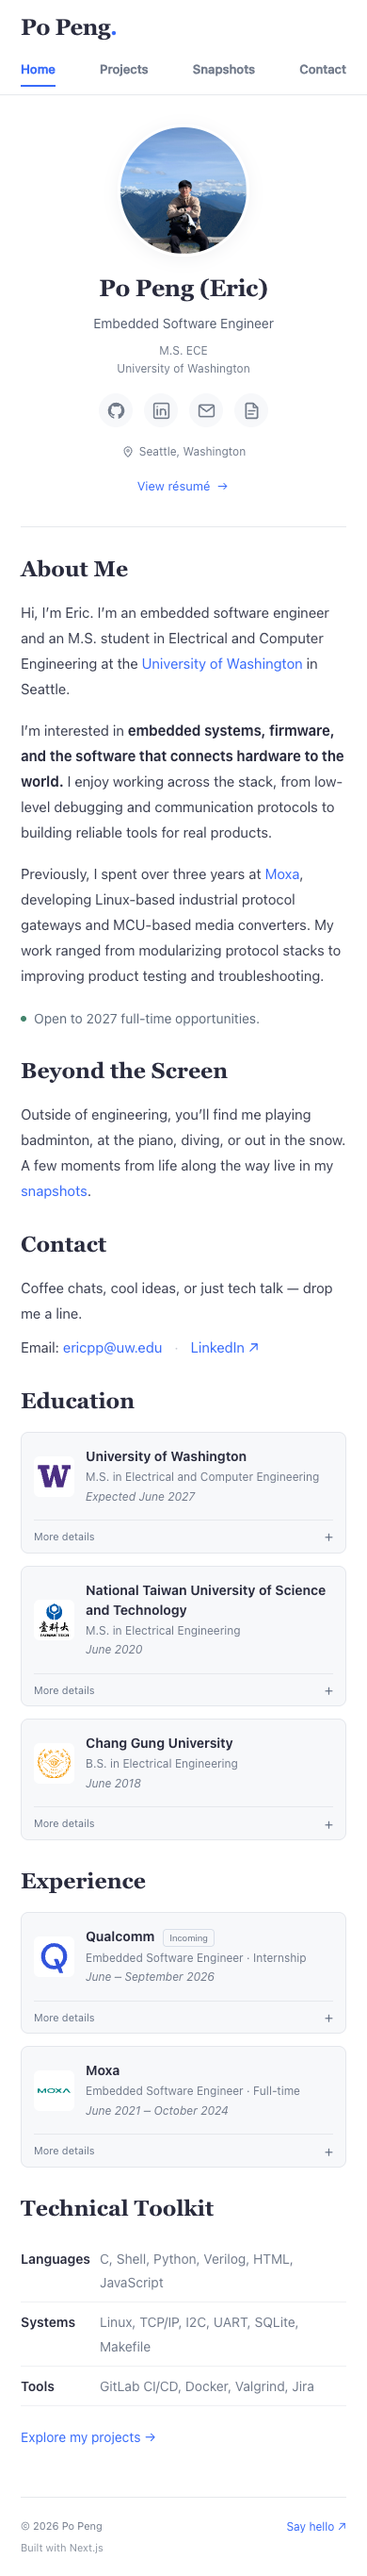
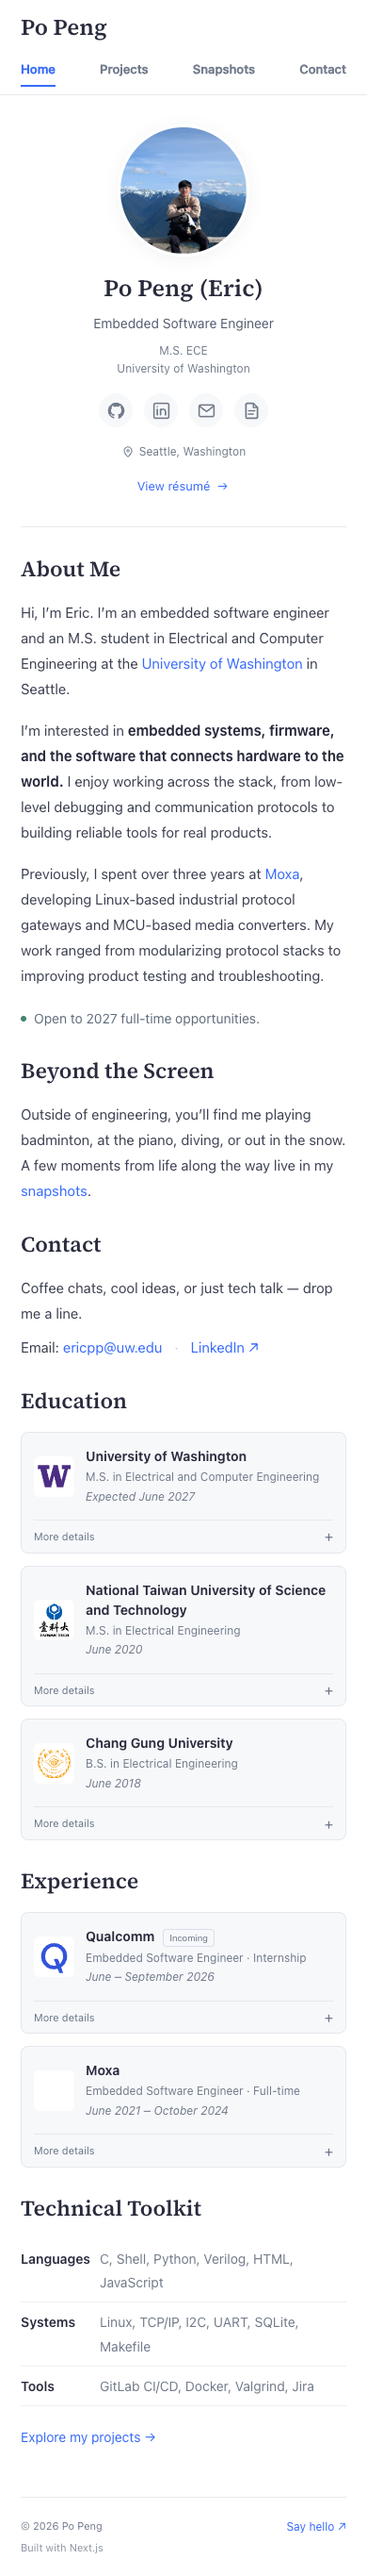
Publish root homepage with Source Serif 4 headings

diff --git a/src/styles.css b/src/styles.css
@@ -1,3 +1,11 @@
+@font-face {
+  font-family: "Source Serif 4";
+  font-style: normal;
+  font-weight: 400 700;
+  font-display: swap;
+  src: url("./fonts/source-serif-4-latin.woff2") format("woff2");
+}
+
 :root {
   color-scheme: light;
   --ink: #292b3d;
@@ -6,6 +14,7 @@
   --blue: #386bfa;
   --line: #e6e8ec;
   --panel: #f7f8fa;
+  --heading-font: "Source Serif 4", Georgia, "Times New Roman", serif;
 }
 * {
   box-sizing: border-box;
@@ -49,14 +58,15 @@ video:focus-visible {
 h1,
 h2,
 .wordmark {
-  font-family: Georgia, "Times New Roman", serif;
+  font-family: var(--heading-font);
+  font-weight: 600;
   color: var(--ink);
 }
 h2 {
   font-size: 24px;
   line-height: 1.35;
   margin: 0 0 17px;
-  font-weight: 700;
+  font-weight: 600;
 }
 h3 {
   color: var(--ink);
@@ -87,16 +97,13 @@ p {
 }
 .wordmark {
   font-size: 25px;
-  font-weight: 700;
+  font-weight: 600;
   white-space: nowrap;
-  letter-spacing: -0.6px;
+  letter-spacing: normal;
   line-height: 1.2;
 }
 .wordmark:hover {
   text-decoration: none;
-}
-.wordmark-dot {
-  color: var(--blue);
 }
 nav {
   display: flex;
@@ -214,7 +221,7 @@ nav {
   font-size: 25px;
   line-height: 1.3;
   margin: 0 0 11px;
-  letter-spacing: -0.4px;
+  letter-spacing: normal;
 }
 .profile-role {
   font-size: 14px;
@@ -497,7 +504,8 @@ nav {
 }
 .project-card h3 {
   font-size: 20px;
-  font-family: Georgia, "Times New Roman", serif;
+  font-family: var(--heading-font);
+  font-weight: 600;
   margin: 0 0 10px;
 }
 .project-card > p {

diff --git a/src/components/Layout.tsx b/src/components/Layout.tsx
@@ -53,7 +53,6 @@ export default function Layout({
         <div className="header-inner">
           <Link className="wordmark" href="/">
             {profile.shortName}
-            <span className="wordmark-dot">.</span>
           </Link>
           <nav aria-label="Main navigation">
             {nav.map((item) => (

diff --git a/README.md b/README.md
@@ -2,7 +2,7 @@
 
 A separate redesign of `../personal-website`, inspired by the supplied clean academic homepage screenshots. The original website and its Vercel project are untouched.
 
-The new site uses the original Next.js / React stack with a white background, blue links, serif headings, a sticky profile sidebar, and subtle education / experience cards. The pages are Home, Projects (with category filtering), and Snapshots. Videos use native playback controls and locally generated poster images.
+The new site uses the original Next.js / React stack with a white background, blue links, Source Serif 4 headings (weight 600), a sticky profile sidebar, and subtle education / experience cards. The heading font is self-hosted in `src/fonts/`, with its SIL Open Font License included. The pages are Home, Projects (with category filtering), and Snapshots. Videos use native playback controls and locally generated poster images.
 
 ## Run locally
 
@@ -40,13 +40,26 @@ With `npm run dev`, open **調整照片** below the profile photo to adjust zoom
 
 ## GitHub Pages deployment
 
-The test site is deployed from this repository independently of the existing root website:
+The primary website is deployed to the account's root GitHub Pages URL:
 
-- Website: https://ericpp-peng.github.io/personal-website-v2/
-- Repository: https://github.com/ericpp-peng/personal-website-v2
+- Website: https://ericpp-peng.github.io/
+- Repository: https://github.com/ericpp-peng/ericpp-peng.github.io
+- Active branch: `website-v2`
 - Workflow: `.github/workflows/pages.yml`
 
-Pushing to `main` automatically builds and deploys the website. Repository **Settings → Pages → Source** must be set to **GitHub Actions**. The workflow reads the site's path from GitHub Pages and sets `NEXT_PUBLIC_BASE_PATH` during the build so navigation, photos, posters, and videos work under `/personal-website-v2/`.
+This local `personal-website-v2` folder remains the working source. `origin` points to the root website repository, and `preview` points to the original test repository. Pushing `website-v2` to `origin` automatically builds and deploys the primary website. The root repository's previous `source` and `main` branches are preserved for rollback; the separate local `../ericpp-peng.github.io` checkout and its uncommitted changes are preserved.
+
+```sh
+git push
+```
+
+Repository **Settings → Pages → Source** must be set to **GitHub Actions**. The workflow reads the site's path from GitHub Pages and sets `NEXT_PUBLIC_BASE_PATH` during the build so navigation, photos, posters, and videos work at either the root or a project path.
+
+The earlier test site remains at https://ericpp-peng.github.io/personal-website-v2/. To update it separately:
+
+```sh
+git push preview HEAD:main
+```
 
 For a local build using the same path:
 
